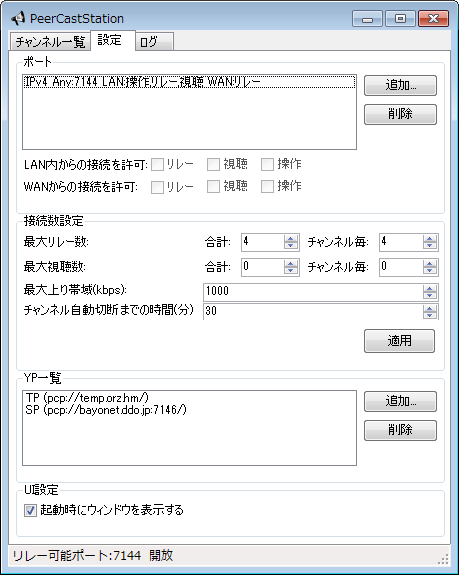
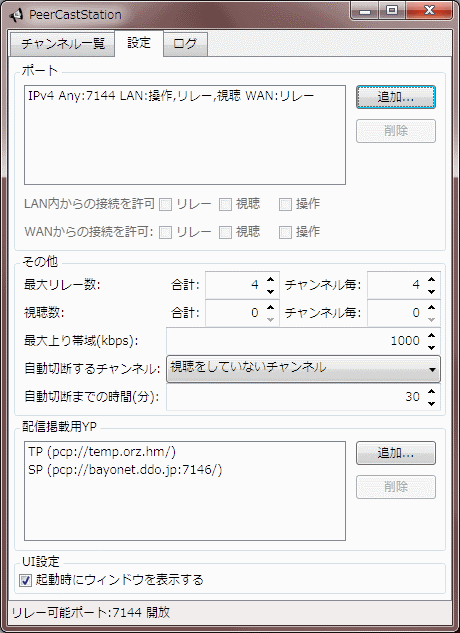
Bumped version up to 1.5.0

Changed region(s): [[0.0, 0.0, 1.0, 1.0]]

diff --git a/PeerCastStation/PeerCastStation.UI.HTTP/help/index.html b/PeerCastStation/PeerCastStation.UI.HTTP/help/index.html
@@ -38,7 +38,7 @@
 <h2 id="section">動作環境</h2>
 <p>WindowsではWindows XP SP3以降 + .NET Framework 3.5以降が必要です。</p>
 
-<p>Windows以外ではmono 2.6.7以降があれば動くと思います。ただしGUIに制限があります。</p>
+<p>Windows以外ではmono 2.6.7以降があれば動くと思います。ただしGUIは使えません。</p>
 
 <h2 id="section-1">インストール方法</h2>
 <p>インストーラなどは無いので適当な場所にzipを展開してPeerCastStation.exeを起動してください。
@@ -54,12 +54,25 @@ OSXなどでは<a href="http://www.go-mono.com/mono-downloads/download.html">mon
 
 <p>で実行してください。</p>
 
-<p>monoで上手く動かない場合はPeerCastStation.GUI.dllを削除すると起動できます。
-この場合はGUIが出ないですが、ポートが開ければWebブラウザから<a href="http://localhost:7144/html/index.html">http://localhost:7144/html/index.html</a>にアクセスして操作できます。</p>
+<p>Windows以外ではUIが出ないですが、ポートが開ければWebブラウザから<a href="http://localhost:7144/html/index.html">http://localhost:7144/html/index.html</a>にアクセスして操作できます。</p>
 
 <h2 id="section-2">更新履歴</h2>
 
-<h3 id="section-3">1.4.2 (2013年7月13日版)</h3>
+<h3 id="section-3">1.5.0 (2013年9月4日版)</h3>
+
+<p>GUIの作り直しと内部の大幅な整理を行いました。</p>
+
+<ul>
+  <li>GUIをWPFで作り直しました(thanks progre)。Windows以外ではGUIが動かなくなりました</li>
+  <li>GUIのチャンネル・接続一覧の記号に色が付くようになりました</li>
+  <li>GUIの配信開始ダイアログで履歴の呼び出しができるようになりました</li>
+  <li>H.264を入れたFLV配信が上手くできていなかったのを修正しました(thanks niwakazoider)</li>
+  <li>読み込めないプラグインがあった場合に起動しないのを修正しました。Monoでもファイルを消さずにGUI無しで起動します</li>
+  <li>PCP通信時に拡張バージョンとしてST150を出力するようにしました</li>
+  <li>受信部を大幅に整理し、リレーの再接続などの安定化をしました</li>
+</ul>
+
+<h3 id="section-4">1.4.2 (2013年7月13日版)</h3>
 
 <p>主にバグ修正のリリースです。</p>
 
@@ -72,7 +85,7 @@ OSXなどでは<a href="http://www.go-mono.com/mono-downloads/download.html">mon
   <li>接続が切れているチャンネルに同時に複数の視聴要求がくると落ちることがあったのを修正しました</li>
 </ul>
 
-<h3 id="section-4">1.4.1 (2013年6月19日版)</h3>
+<h3 id="section-5">1.4.1 (2013年6月19日版)</h3>
 
 <p>バグ修正のリリースです。CPUを食いつぶすバグとGUIが落ちるバグを修正しました。</p>
 
@@ -85,7 +98,7 @@ OSXなどでは<a href="http://www.go-mono.com/mono-downloads/download.html">mon
   <li>ログファイルがずっとロックされていたのを実際の書き込み中のみロックされるように変更しました</li>
 </ul>
 
-<h3 id="section-5">1.4.0 (2013年5月29日版)</h3>
+<h3 id="section-6">1.4.0 (2013年5月29日版)</h3>
 
 <p>自動でリレー管理するようになりました。</p>
 
@@ -98,7 +111,7 @@ OSXなどでは<a href="http://www.go-mono.com/mono-downloads/download.html">mon
   <li>設定保存がPeerCastStation正常終了時のみ行われていたのを、設定変更時にすぐ保存するようにしました</li>
 </ul>
 
-<h3 id="section-6">1.3.2 (2013年5月8日版)</h3>
+<h3 id="section-7">1.3.2 (2013年5月8日版)</h3>
 
 <p>まだあったHTML UIの不具合を修正しました。</p>
 
@@ -106,7 +119,7 @@ OSXなどでは<a href="http://www.go-mono.com/mono-downloads/download.html">mon
   <li>HTML UIの設定ページでその他の設定を変更しても全く反映されないのを修正しました</li>
 </ul>
 
-<h3 id="section-7">1.3.1 (2013年5月5日版)</h3>
+<h3 id="section-8">1.3.1 (2013年5月5日版)</h3>
 
 <p>1.3.0で入れてしまったHTML UIの不具合を修正しました。</p>
 
@@ -115,7 +128,7 @@ OSXなどでは<a href="http://www.go-mono.com/mono-downloads/download.html">mon
   <li>User-AgentやServerをPeerCastStation/1.3.1.0のようなバージョンに即した値を出力するようにしました</li>
 </ul>
 
-<h3 id="section-8">1.3.0 (2013年5月4日版)</h3>
+<h3 id="section-9">1.3.0 (2013年5月4日版)</h3>
 
 <p>チャンネル自動切断のモード選択ができるようになりました。</p>
 
@@ -133,7 +146,7 @@ OSXなどでは<a href="http://www.go-mono.com/mono-downloads/download.html">mon
   <li>プラグインシステムの実装を変更しました。バージョン表示が少し変わりますが動作には何の影響もありません</li>
 </ul>
 
-<h3 id="section-9">1.2.1 (2013年3月29日版)</h3>
+<h3 id="section-10">1.2.1 (2013年3月29日版)</h3>
 
 <p>バグ修正と細かい部分の追加・修正が主です。</p>
 
@@ -148,7 +161,7 @@ OSXなどでは<a href="http://www.go-mono.com/mono-downloads/download.html">mon
   <li>GUIでログ表示の設定を変更しても反映されていなかったのを修正しました</li>
 </ul>
 
-<h3 id="section-10">1.2.0 (2013年2月28日版)</h3>
+<h3 id="section-11">1.2.0 (2013年2月28日版)</h3>
 
 <p>設定ファイルの保存場所および内容が変わりました。
 以前からの設定は引き継がれるはずですが、念のため起動後に設定を確認してください。</p>
@@ -163,7 +176,7 @@ OSXなどでは<a href="http://www.go-mono.com/mono-downloads/download.html">mon
   <li>機能追加をやりやすくするために設定ファイルの保存場所および内容を変更しました。新旧の設定保存先はヘルプの<a href="misc.html">その他</a>を参照してください</li>
 </ul>
 
-<h3 id="section-11">1.1.0 (2013年1月29日版)</h3>
+<h3 id="section-12">1.1.0 (2013年1月29日版)</h3>
 
 <ul>
   <li>再接続後に下流へのリレーが止まってしまうことがあるのを修正しました</li>
@@ -178,7 +191,7 @@ OSXなどでは<a href="http://www.go-mono.com/mono-downloads/download.html">mon
   <li>一部のチャンネルでチャンネル情報が文字化けすることがあるのを仕方なく対処してやりました。本来はShift-JISなんかでチャンネル情報を流す方が悪い</li>
 </ul>
 
-<h3 id="section-12">1.0.0 (2012年12月31日版)</h3>
+<h3 id="section-13">1.0.0 (2012年12月31日版)</h3>
 
 <p>主にバグ修正です。PeerCast互換という意味ではだいたい足りてきたのでVersion 1.0になりました。
 今後はPeerCastになかった新機能の追加も積極的に行う予定です。</p>
@@ -197,7 +210,7 @@ OSXなどでは<a href="http://www.go-mono.com/mono-downloads/download.html">mon
   <li>31日版:HTML UIで起動時間・チャンネルリレー時間の計算が間違っていたのを修正しました</li>
 </ul>
 
-<h3 id="section-13">0.9.0 (2012年11月29日版)</h3>
+<h3 id="section-14">0.9.0 (2012年11月29日版)</h3>
 
 <ul>
   <li>リレー要求を受け付けた際に新しく接続されたリレー先に多量のデータを集中して送ってしまっていたのを修正しました</li>
@@ -205,7 +218,7 @@ OSXなどでは<a href="http://www.go-mono.com/mono-downloads/download.html">mon
   <li>エンコードが停止再開されたあとやチャンネルの位置が4GBを越えた場合も安定して視聴やリレーができるように改善しました</li>
 </ul>
 
-<h3 id="section-14">0.8.1 (2012年10月29日版)</h3>
+<h3 id="section-15">0.8.1 (2012年10月29日版)</h3>
 
 <ul>
   <li>リレーの再接続時に正しく再接続できずにERRORになることがあったのを修正しました</li>
@@ -218,7 +231,7 @@ OSXなどでは<a href="http://www.go-mono.com/mono-downloads/download.html">mon
   <li>その他細かいバグ修正やコードの整理を行ないました</li>
 </ul>
 
-<h3 id="section-15">0.8.0 きゃすけっと2012秋版</h3>
+<h3 id="section-16">0.8.0 きゃすけっと2012秋版</h3>
 
 <ul>
   <li>リレー・配信ともに安定性を向上しました</li>
@@ -228,31 +241,31 @@ OSXなどでは<a href="http://www.go-mono.com/mono-downloads/download.html">mon
   <li>簡易的なバージョンアップチェックを追加しました</li>
 </ul>
 
-<h3 id="section-16">0.7.0 きゃすけっと2012春版</h3>
+<h3 id="section-17">0.7.0 きゃすけっと2012春版</h3>
 
 <ul>
   <li>なんかいろいろ修正した。主にHTML UIを追加した</li>
 </ul>
 
-<h3 id="section-17">0.6.1</h3>
+<h3 id="section-18">0.6.1</h3>
 
 <ul>
   <li>HTTP出力でメモリリークしていたのを修正した。YP接続部分のログを出力するようにした。</li>
 </ul>
 
-<h3 id="section-18">0.6.0</h3>
+<h3 id="section-19">0.6.0</h3>
 
 <ul>
   <li>初期配布バージョン</li>
 </ul>
 
-<h2 id="section-19">ソース・ライセンス</h2>
+<h2 id="section-20">ソース・ライセンス</h2>
 <p><a href="https://github.com/kumaryu/peercaststation">githubにてソース公開しています。</a></p>
 
 <p>ライセンスはGPLv3です。
 使用しているライブラリ等のライセンスに関しては同梱のLICENSE.txtを見てください。</p>
 
-<h2 id="section-20">問題の報告・要望の連絡先について</h2>
+<h2 id="section-21">問題の報告・要望の連絡先について</h2>
 <p><a href="https://github.com/kumaryu/peercaststation">githubのIssueに追加してください。</a></p>
 
 

diff --git a/PeerCastStation/PeerCastStation.UI.HTTP/help/usage.html b/PeerCastStation/PeerCastStation.UI.HTTP/help/usage.html
@@ -98,35 +98,39 @@ WebブラウザでYPのページからPlayリンクで再生するか、各種YP
 <table class="table">
   <tbody>
     <tr>
-      <td>　</td>
+      <td> </td>
       <td>未接続。IDLEやERRORになってるチャンネルでは何も表示されません。</td>
     </tr>
     <tr>
-      <td>◎</td>
-      <td>リレー可能。俗に言う緑。問題ない状態です。</td>
+      <td><img src="images/relay_icon_0.png" alt="◎" /></td>
+      <td>リレー可能。緑。問題ない状態です。</td>
     </tr>
     <tr>
-      <td>○</td>
-      <td>これ以上リレーができない。俗に言う青。現在リレーをしているがこれ以上のリレーは増やせない状態です。リレーはできてるので問題はありませんが、思ったよりリレー数が少ないのにいっぱいになっていれば設定を見直してください。</td>
+      <td><img src="images/relay_icon_1.png" alt="○" /></td>
+      <td>これ以上リレーができない。青。現在リレーをしているがこれ以上のリレーは増やせない状態です。リレーはできてるので問題はありませんが、思ったよりリレー数が少ないのにいっぱいになっていれば設定を見直してください。</td>
     </tr>
     <tr>
-      <td>△</td>
-      <td>リレーできない。俗に言う紫。リレーをしていないのにこれ以上のリレーが増やせない状態です。ポートは開いていますがビットレートやリレー数がいっぱいでリレーできない場合にこの状態になります。複数のチャンネルをリレーしている場合は他のチャンネルを閉じるなりしてください。思ったよりリレー数が少ないのに△になっている場合は設定を見直してください。</td>
+      <td><img src="images/relay_icon_2.png" alt="△" /></td>
+      <td>リレーできない。紫。リレーをしていないのにこれ以上のリレーが増やせない状態です。ポートは開いていますがビットレートやリレー数がいっぱいでリレーできない場合にこの状態になります。複数のチャンネルをリレーしている場合は他のチャンネルを閉じるなりしてください。思ったよりリレー数が少ないのに△になっている場合は設定を見直してください。</td>
     </tr>
     <tr>
-      <td>×</td>
-      <td>ポート未開放。俗に言う赤。設定したポートに外からアクセスできないためにリレーができない状態です。ポートの設定でWAN側にリレー許可が入っているか確認してください。またルータの設定を確認してポートが開放されているかを確認してください。</td>
+      <td><img src="images/relay_icon_3.png" alt="×" /></td>
+      <td>ポート未開放。赤。設定したポートに外からアクセスできないためにリレーができない状態です。ポートの設定でWAN側にリレー許可が入っているか確認してください。またルータの設定を確認してポートが開放されているかを確認してください。</td>
     </tr>
     <tr>
-      <td>■</td>
-      <td>(接続一覧のみ)リレーの受信が滞っている状態です。俗に言う黒。帯域が足りてない可能性があるので、他の通信しているアプリがないか、帯域設定が正しいか確認してください。</td>
+      <td><img src="images/relay_icon_4.png" alt="？" /></td>
+      <td>ポート未開放なのにリレーをしている。橙。設定したポートに外からアクセスできないためにリレーができない状態ですが、なぜかリレーをしている状態です。赤の場合と同じく、ポートおよびルータの設定を確認してください。</td>
     </tr>
     <tr>
-      <td>Ｒ</td>
-      <td>(接続一覧のみ)接続先がRoot(YP)であることを示します。</td>
+      <td><img src="images/relay_icon_6.png" alt="■" /></td>
+      <td>(接続一覧のみ)リレーの受信が滞っている状態です。黒。帯域が足りてない可能性があるので、他の通信しているアプリがないか、帯域設定が正しいか確認してください。</td>
     </tr>
     <tr>
-      <td>Ｔ</td>
+      <td><img src="images/relay_icon_7.png" alt="YP" /></td>
+      <td>(接続一覧のみ)接続先がRoot(YP)であることを示します。配信している時にYPに掲載するための接続に対して表示されます。</td>
+    </tr>
+    <tr>
+      <td><img src="images/relay_icon_8.png" alt="Tr" /></td>
       <td>(接続一覧のみ)接続先がトラッカー(配信元)であることを示します。この記号がついてた場合はリレー直下に接続されています。</td>
     </tr>
   </tbody>

diff --git a/PeerCastStation/PeerCastStation.UI.HTTP/help/broadcast.html b/PeerCastStation/PeerCastStation.UI.HTTP/help/broadcast.html
@@ -44,6 +44,10 @@
 <table class="table">
   <tbody>
     <tr>
+      <td>履歴</td>
+      <td>以前に配信開始した時の設定の一覧です。いずれかを選択すると呼び出すことができます。最大20件まで保存されます。</td>
+    </tr>
+    <tr>
       <td>ストリームURL</td>
       <td>配信する動画のURLを指定します。http://localhost:8080/など入れておきます。</td>
     </tr>

diff --git a/PeerCastStation/PeerCastStation.Core/Properties/AssemblyInfo.cs b/PeerCastStation/PeerCastStation.Core/Properties/AssemblyInfo.cs
@@ -25,7 +25,6 @@ using System.Runtime.InteropServices;
 [assembly: AssemblyConfiguration("")]
 [assembly: AssemblyCompany("")]
 [assembly: AssemblyProduct("PeerCastStation.Core")]
-[assembly: AssemblyInformationalVersion("1.0.0.0")]
 [assembly: AssemblyCopyright("")]
 [assembly: AssemblyTrademark("")]
 [assembly: AssemblyCulture("")]
@@ -49,4 +48,6 @@ using System.Runtime.InteropServices;
 // 既定値にすることができます:
 // [assembly: AssemblyVersion("1.0.*")]
 [assembly: AssemblyVersion("1.0.0.0")]
-[assembly: AssemblyFileVersion("1.4.2.0")]
+[assembly: AssemblyFileVersion("1.5.0.0")]
+[assembly: AssemblyInformationalVersion("1.5.0.0")]
+

diff --git a/PeerCastStation/PeerCastStation.GUI/Properties/Settings.Designer.cs b/PeerCastStation/PeerCastStation.GUI/Properties/Settings.Designer.cs
@@ -34,7 +34,7 @@ namespace PeerCastStation.GUI.Properties {
         
         [global::System.Configuration.ApplicationScopedSettingAttribute()]
         [global::System.Diagnostics.DebuggerNonUserCodeAttribute()]
-        [global::System.Configuration.DefaultSettingValueAttribute("2013-07-13")]
+        [global::System.Configuration.DefaultSettingValueAttribute("2013-09-04")]
         public global::System.DateTime CurrentVersion {
             get {
                 return ((global::System.DateTime)(this["CurrentVersion"]));

diff --git a/PeerCastStation/PeerCastStation.WPF/Properties/Settings.Designer.cs b/PeerCastStation/PeerCastStation.WPF/Properties/Settings.Designer.cs
@@ -94,7 +94,7 @@ namespace PeerCastStation.WPF.Properties {
         
         [global::System.Configuration.ApplicationScopedSettingAttribute()]
         [global::System.Diagnostics.DebuggerNonUserCodeAttribute()]
-        [global::System.Configuration.DefaultSettingValueAttribute("2013-07-13")]
+        [global::System.Configuration.DefaultSettingValueAttribute("2013-09-04")]
         public global::System.DateTime CurrentVersion {
             get {
                 return ((global::System.DateTime)(this["CurrentVersion"]));

diff --git a/PeerCastStation/PeerCastStation.HTTP/Properties/AssemblyInfo.cs b/PeerCastStation/PeerCastStation.HTTP/Properties/AssemblyInfo.cs
@@ -48,4 +48,6 @@ using System.Runtime.InteropServices;
 // 既定値にすることができます:
 // [assembly: AssemblyVersion("1.0.*")]
 [assembly: AssemblyVersion("1.0.0.0")]
-[assembly: AssemblyFileVersion("1.4.2.0")]
+[assembly: AssemblyFileVersion("1.5.0.0")]
+[assembly: AssemblyInformationalVersion("1.5.0.0")]
+

diff --git a/PeerCastStation/PeerCastStation.PCP/Properties/AssemblyInfo.cs b/PeerCastStation/PeerCastStation.PCP/Properties/AssemblyInfo.cs
@@ -48,4 +48,6 @@ using System.Runtime.InteropServices;
 // 既定値にすることができます:
 // [assembly: AssemblyVersion("1.0.*")]
 [assembly: AssemblyVersion("1.0.0.0")]
-[assembly: AssemblyFileVersion("1.4.2.0")]
+[assembly: AssemblyFileVersion("1.5.0.0")]
+[assembly: AssemblyInformationalVersion("1.5.0.0")]
+

diff --git a/PeerCastStation/PeerCastStation.ASF/Properties/AssemblyInfo.cs b/PeerCastStation/PeerCastStation.ASF/Properties/AssemblyInfo.cs
@@ -33,4 +33,5 @@ using System.Runtime.InteropServices;
 // 既定値にすることができます:
 // [assembly: AssemblyVersion("1.0.*")]
 [assembly: AssemblyVersion("1.0.0.0")]
-[assembly: AssemblyFileVersion("1.4.2.0")]
+[assembly: AssemblyFileVersion("1.5.0.0")]
+[assembly: AssemblyInformationalVersion("1.5.0.0")]

diff --git a/PeerCastStation/PeerCastStation.FLV/Properties/AssemblyInfo.cs b/PeerCastStation/PeerCastStation.FLV/Properties/AssemblyInfo.cs
@@ -33,4 +33,5 @@ using System.Runtime.InteropServices;
 // 既定値にすることができます:
 // [assembly: AssemblyVersion("1.0.*")]
 [assembly: AssemblyVersion("1.0.0.0")]
-[assembly: AssemblyFileVersion("1.4.2.0")]
+[assembly: AssemblyFileVersion("1.5.0.0")]
+[assembly: AssemblyInformationalVersion("1.5.0.0")]

diff --git a/PeerCastStation/PeerCastStation.GUI/Properties/AssemblyInfo.cs b/PeerCastStation/PeerCastStation.GUI/Properties/AssemblyInfo.cs
@@ -48,4 +48,5 @@ using System.Runtime.InteropServices;
 // 既定値にすることができます:
 // [assembly: AssemblyVersion("1.0.*")]
 [assembly: AssemblyVersion("1.0.0.0")]
-[assembly: AssemblyFileVersion("1.4.2.0")]
+[assembly: AssemblyFileVersion("1.5.0.0")]
+[assembly: AssemblyInformationalVersion("1.5.0.0")]

diff --git a/PeerCastStation/PeerCastStation.MKV/Properties/AssemblyInfo.cs b/PeerCastStation/PeerCastStation.MKV/Properties/AssemblyInfo.cs
@@ -33,4 +33,5 @@ using System.Runtime.InteropServices;
 // 既定値にすることができます:
 // [assembly: AssemblyVersion("1.0.*")]
 [assembly: AssemblyVersion("1.0.0.0")]
-[assembly: AssemblyFileVersion("1.4.2.0")]
+[assembly: AssemblyFileVersion("1.5.0.0")]
+[assembly: AssemblyInformationalVersion("1.5.0.0")]
